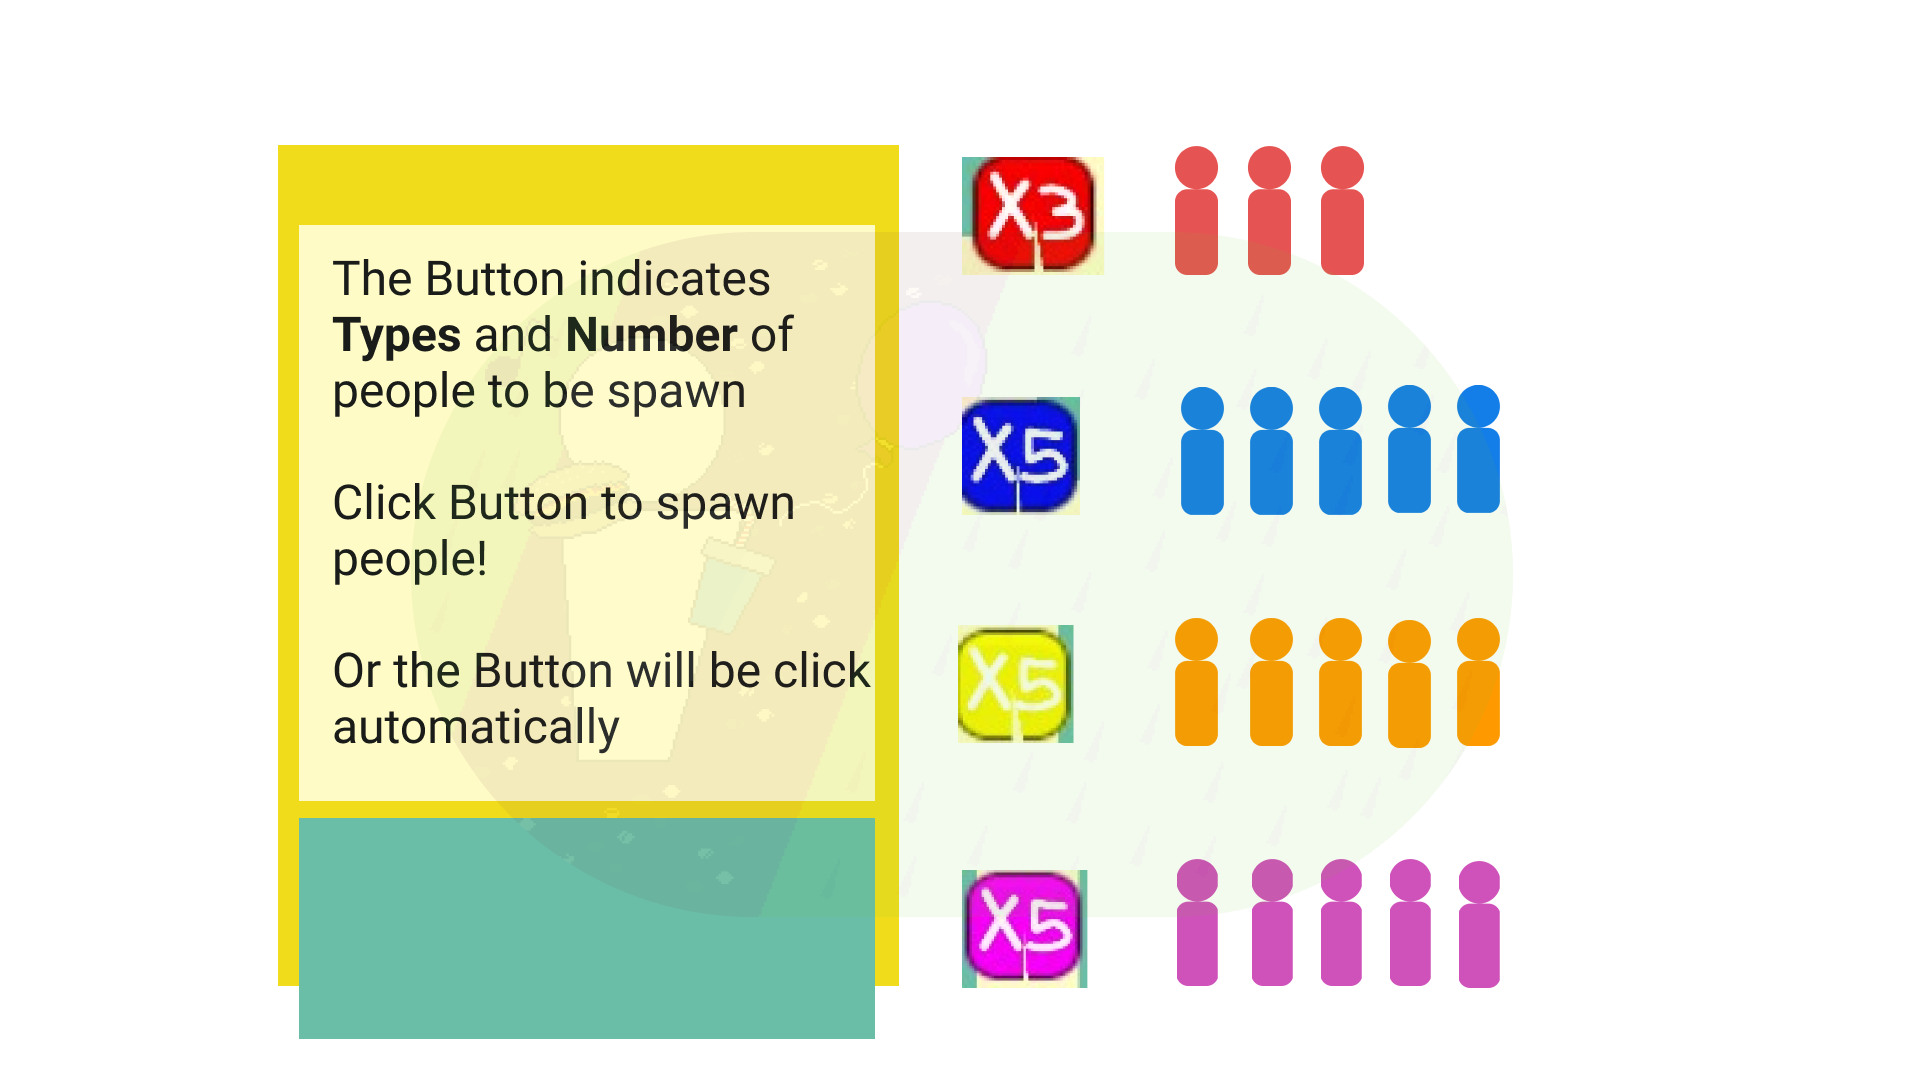
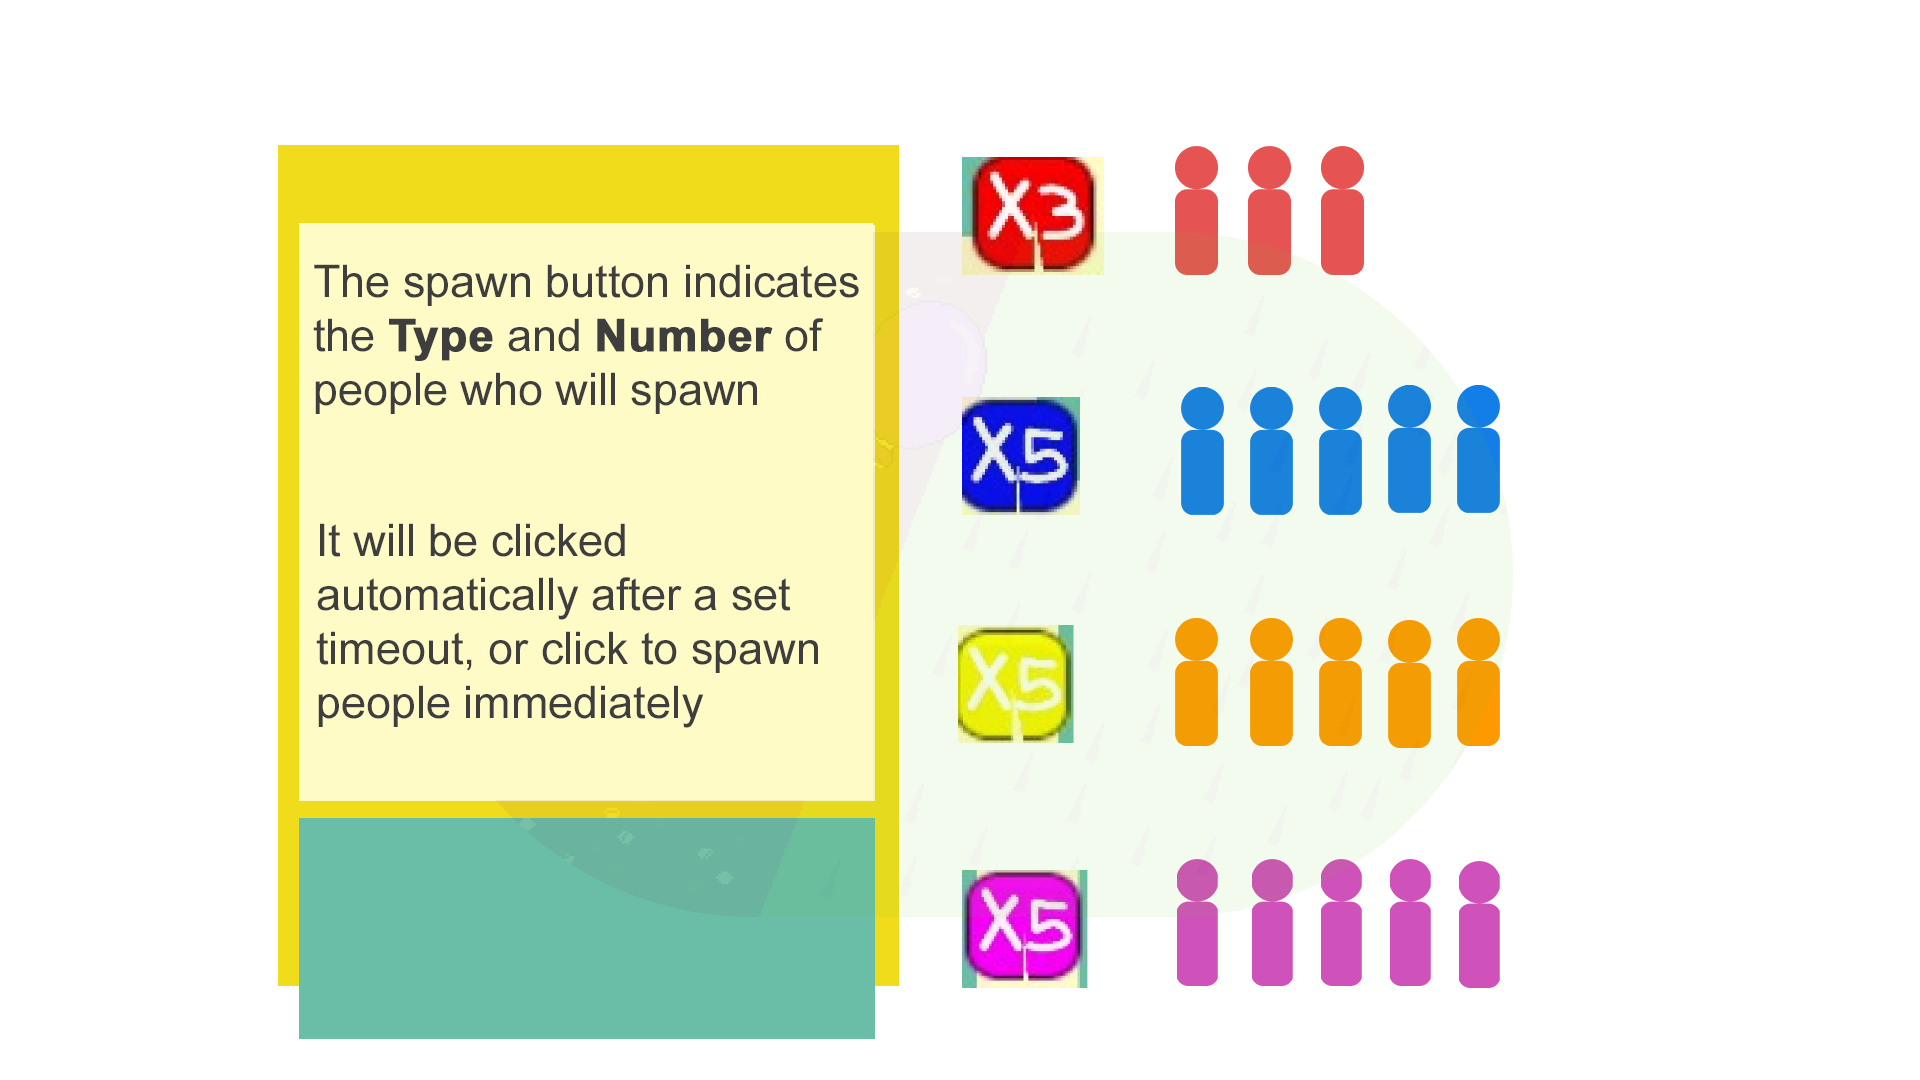
Correct spelling on tutorial and congrats message, make sure all canvas objects align with world screen

Changed region(s): [[0.1562, 0.4583, 0.4688, 0.7028], [0.1562, 0.2444, 0.4688, 0.3972]]

diff --git a/People Pleasers/Assets/Scripts/SceneLoader.cs b/People Pleasers/Assets/Scripts/SceneLoader.cs
@@ -53,7 +53,13 @@ public class SceneLoader : MonoBehaviour
         PauseChecker();
         currentSceneIndex = SceneManager.GetActiveScene().buildIndex;
         Debug.Log("From LoadNextScene: " + currentSceneIndex);
-        SceneManager.LoadScene(currentSceneIndex + 1);
+        if (currentSceneIndex == 11)
+            currentSceneIndex = 1;
+        else if (currentSceneIndex == 13)
+            currentSceneIndex = 2;
+        else
+            currentSceneIndex++;
+        SceneManager.LoadScene(currentSceneIndex);
     }
 
     public void LoadMainMenu()
